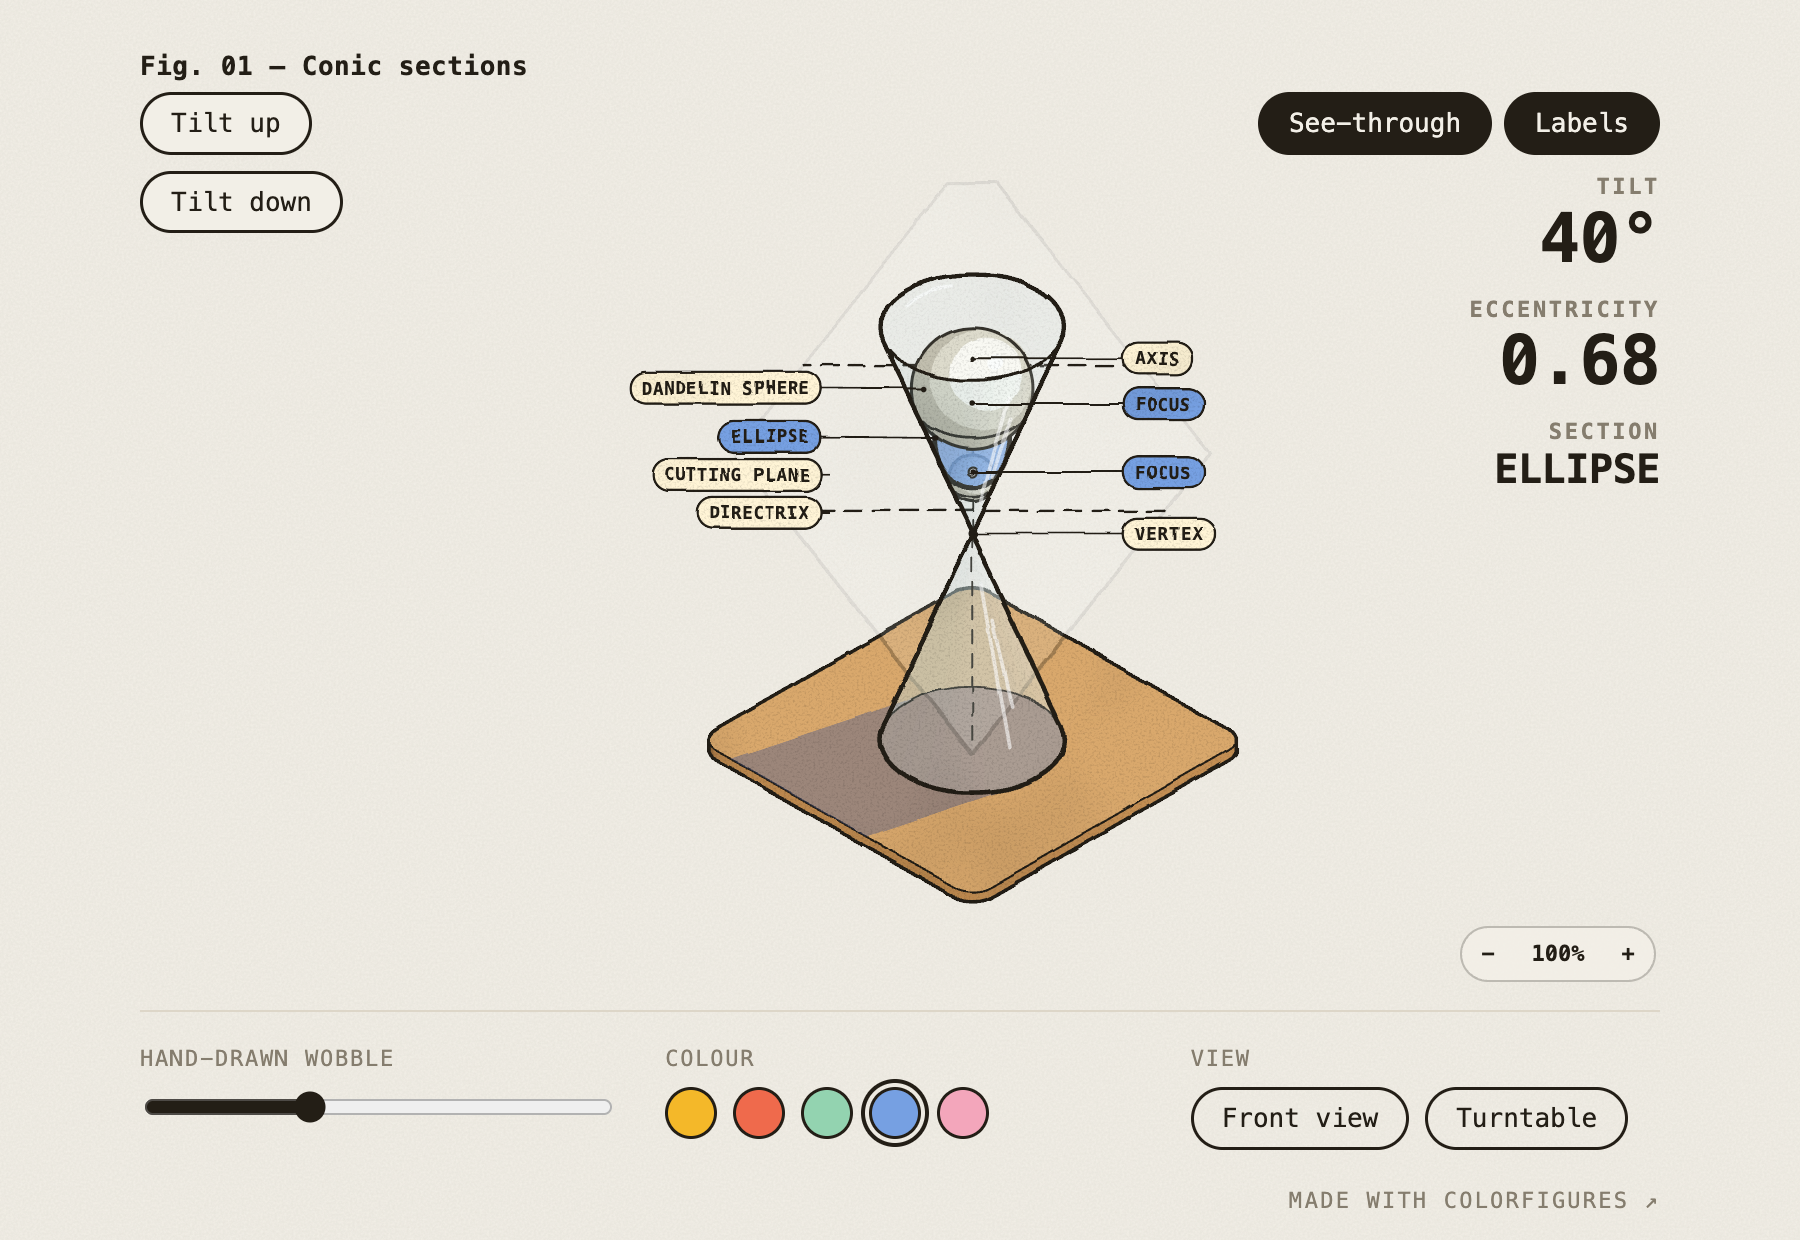
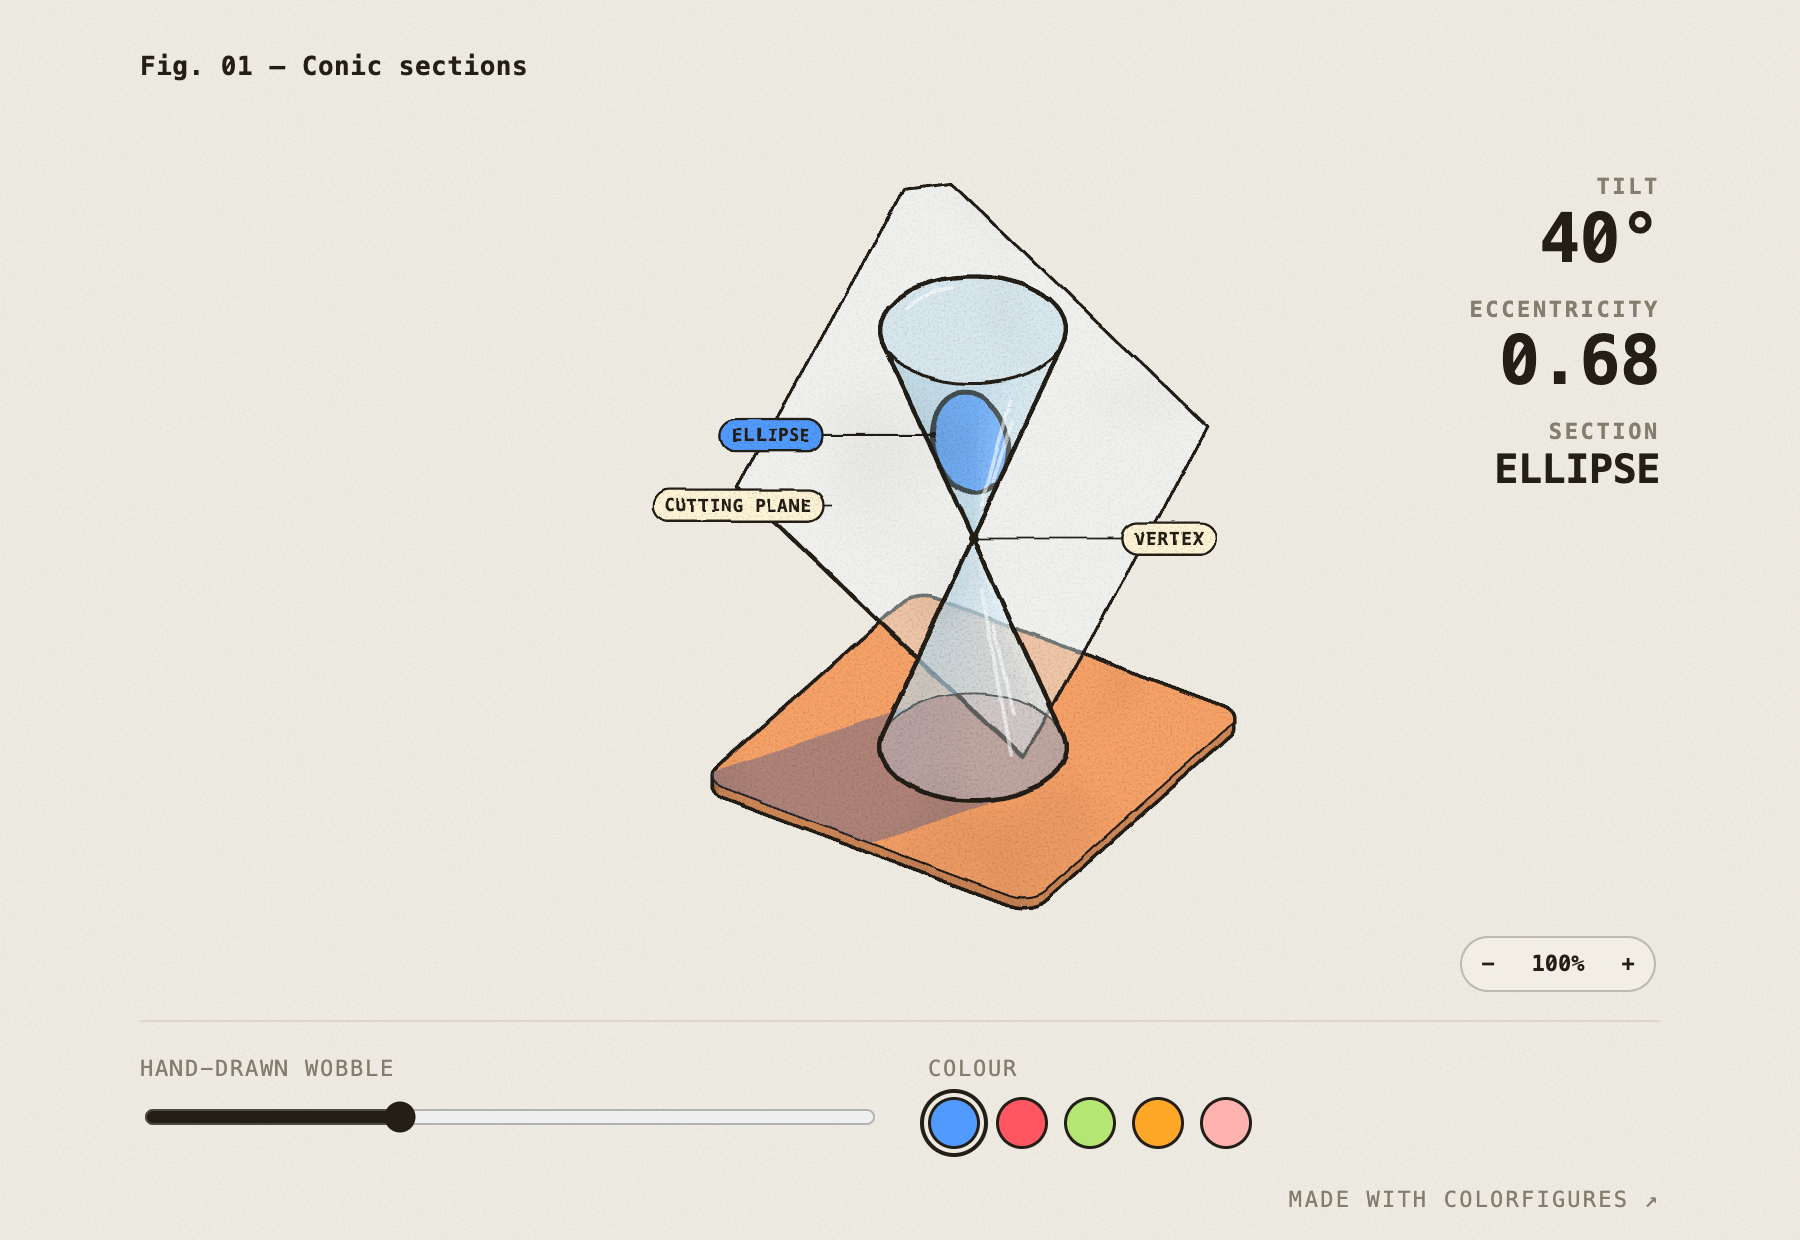
Free-turning plane, auto-spinning camera, marker colours
Drag tilts the plane in any direction; the camera circles on its own. Tilt buttons and
see-through removed, labels always on and no longer flicker, colours from the marker palette.

diff --git a/index.html b/index.html
@@ -1,6 +1,7 @@
 <!doctype html>
 <html lang="en"><head><meta charset="utf-8"><meta name="viewport" content="width=device-width,initial-scale=1">
-<meta name="color-scheme" content="light"><title>Conic Sections</title><style>.mcap{display:none!important}@media (max-width:560px){.stat .v{font-size:20px!important}.stats{align-items:flex-end}}@media (min-width:561px){.vset{top:4px!important}#stats{top:var(--vset-h,44px)!important}}</style><style>@media (max-width:560px){body > header{display:none}}</style><script>window.FIG_A = () => innerWidth <= 560 ? 1.1 : .75;</script><script>window.LBL_U = () => { if (innerWidth > 560) return 0; const s = document.getElementById("fig"); return s && s.clientWidth && s.viewBox.baseVal.width ? s.viewBox.baseVal.width / s.clientWidth : 0; };</script></head><body>
+<meta name="color-scheme" content="light"><title>Conic Sections</title>
+<style>@media (max-width:560px){.stats{flex-wrap:wrap;row-gap:6px!important}}</style><style>.mcap{display:none!important}@media (max-width:560px){.stat .v{font-size:20px!important}.stats{align-items:flex-end}}@media (min-width:561px){.vset{top:4px!important}#stats{top:var(--vset-h,44px)!important}}</style><style>@media (max-width:560px){body > header{display:none}}</style><script>window.FIG_A = () => innerWidth <= 560 ? 1.1 : .75;</script><script>window.LBL_U = () => { if (innerWidth > 560) return 0; const s = document.getElementById("fig"); return s && s.clientWidth && s.viewBox.baseVal.width ? s.viewBox.baseVal.width / s.clientWidth : 0; };</script></head><body>
 <script>
 /* ============================================================
    Colorfigures core: projection, shapes, shading, ink, labels, page shell.
@@ -649,8 +650,8 @@ function mountKeypad(spec){
 /* Conic sections: a clear acrylic double cone cut by one tilting plane.
    How it really works (the maths the model shows):
    - Double cone: every line through the vertex V at the half-angle ALPHA to the axis. Two nappes, tip to tip.
-   - The cutting plane tilts by BETA from horizontal about a fixed horizontal hinge line (in front of the axis,
-     a little above V). Its eccentricity is e = sin BETA / cos ALPHA:
+   - The cutting plane turns freely about a fixed pivot point (a little in front of the axis, above V): it can tilt
+     by any BETA from horizontal, toward any direction PHI. Its eccentricity is e = sin BETA / cos ALPHA:
        BETA = 0          circle      (e = 0)
        0 < BETA < 70     ellipse     (e < 1)   plane cuts one nappe all the way round
        BETA = 70         parabola    (e = 1)   plane parallel to a generator
@@ -665,24 +666,28 @@ function mountKeypad(spec){
 const CW = 100, BH = 3;
 const HN = 60, ALPHA = 20*Math.PI/180, KT = Math.tan(ALPHA), RB = HN*KT;
 const VX = 50, VY = 50, VZ = BH + HN, VTX = [VX, VY, VZ];
-const PHI = 45*Math.PI/180, HD = [Math.cos(PHI), Math.sin(PHI), 0], E2 = [-Math.sin(PHI), Math.cos(PHI), 0];
-const HINGE_P = 4, HINGE_H = 20;                                   // hinge line: 4 toward the viewer, 20 above V
-const HINGE = [VX + HINGE_P*HD[0], VY + HINGE_P*HD[1], VZ + HINGE_H];
+const PIV = [VX + 4*Math.SQRT1_2, VY + 4*Math.SQRT1_2, VZ + 20];   // pivot: 4 toward the front view, 20 above V
 const BOXR = 40, BOXTOP = VZ + HN + 6;                             // the sheet is the plane inside this box
 const SPHM = { l:'#fbfaf3', m:'#dcd8c8', d:'#bdb8a6' };
+/* colours from the marker palette sheet (solid swatches, judy-site/design/textures/palette-full.json) */
+for (const key of Object.keys(PALS)) delete PALS[key];
+Object.assign(PALS, { blue: matOf('#519aff'), coral: matOf('#ff5662'), matcha: matOf('#b5e674'), yellow: matOf('#ffa828'), peach: matOf('#ffb3b1') });
+const GLASS = { l: mix('#a2dfff', '#ffffff', .72), m: mix('#a2dfff', '#ffffff', .45), d: mix('#a2dfff', '#5d7f99', .35) };   // Grayishlight Blue Pale
+const CAMEL = matOf('#f6a167');                                                                                            // Pale Camel board
 const rad = d => d*Math.PI/180;
 const addV = (a, b, k = 1) => [a[0] + b[0]*k, a[1] + b[1]*k, a[2] + b[2]*k];
 
-/* ---------- the plane for a tilt (degrees) ---------- */
-function planeOf(betaDeg){
-  const b = rad(betaDeg), sb = Math.sin(b), cb = Math.cos(b);
-  const n = [sb*HD[0], sb*HD[1], cb], e1 = [-cb*HD[0], -cb*HD[1], sb];
-  return { b, sb, cb, n, e1, delta: dot(n, sub(HINGE, VTX)) };
+/* ---------- the plane for a tilt BETA toward direction PHI (degrees), through the pivot ----------
+   n = normal (always pointing up), e1 = steepest line in the plane, e2 = level line in the plane */
+function planeOf(betaDeg, phiDeg){
+  const b = rad(betaDeg), phi = rad(phiDeg), sb = Math.sin(b), cb = Math.cos(b), hd = [Math.cos(phi), Math.sin(phi), 0];
+  const n = [sb*hd[0], sb*hd[1], cb], e1 = [-cb*hd[0], -cb*hd[1], sb], e2 = [-hd[1], hd[0], 0];
+  return { b, phi, sb, cb, n, e1, e2, delta: dot(n, sub(PIV, VTX)) };
 }
 
 /* ---------- the curve: for each nappe (sg = +1 up, -1 down) the run of points where the plane meets it ----------
    a point on the cone is V + s*(KT cos t, KT sin t, sg) with 0 < s <= HN; on the plane n.(p - V) = delta, so
-   s = delta / (KT sin(beta) cos(t - PHI) + sg cos(beta)) */
+   s = delta / (KT sin(beta) cos(t - phi) + sg cos(beta)) */
 function sectionOf(pl){
   const out = [];
   for (const sg of [1, -1]){
@@ -692,7 +697,7 @@ function sectionOf(pl){
     if (KT*pl.sb > 1e-9){ const cv = (pl.delta/HN - sg*pl.cb)/(KT*pl.sb);
       if (Math.abs(cv) <= 1){ const a = Math.acos(cv); ps.push(a, -a); } }   // exact points where the curve meets the rim
     ps.sort((a, b) => a - b);
-    const pts = ps.map(p => { const s = sAt(p); if (!ok(s)) return null; const t = p + PHI;
+    const pts = ps.map(p => { const s = sAt(p); if (!ok(s)) return null; const t = p + pl.phi;
       return [VX + s*KT*Math.cos(t), VY + s*KT*Math.sin(t), VZ + sg*s]; });
     if (pts.every(Boolean)){ out.push({ sg, pts, closed: true }); continue; }
     const i0 = pts.findIndex(p => !p), run = [];
@@ -714,7 +719,7 @@ function spheresOf(pl){
     const c = [VX, VY, VZ + u], dist = dot(pl.n, sub(c, VTX)) - pl.delta;
     const zt = VZ + u*ca*ca, rt = Math.abs(u)*ca*sa;
     let dir = null;
-    if (pl.sb > .02){ const a = (zt - HINGE[2])/pl.sb; dir = [addV(addV(HINGE, pl.e1, a), E2, -BOXR*1.6), addV(addV(HINGE, pl.e1, a), E2, BOXR*1.6)]; }
+    if (pl.sb > .02){ const a = (zt - PIV[2])/pl.sb; dir = [addV(addV(PIV, pl.e1, a), pl.e2, -BOXR*1.6), addV(addV(PIV, pl.e1, a), pl.e2, BOXR*1.6)]; }
     res.push({ c, u, rho, sg: Math.sign(u), side: Math.sign(dist), foc: addV(c, pl.n, -dist), zt, rt, dir });
   }
   return res;
@@ -746,14 +751,14 @@ const dash = (pts, w, col = INK, da = '3 3', op = 1) => `<path d="${pd(pts, fals
 
 function nappeWalls(sg, k){
   const A = coneRing(sg, .01), B = coneRing(sg, RB);
-  let far = `<g opacity="${f(.5 - .15*k)}">` + loft(A, B, n => mix(toneI(n.map(v => -v), CLEAR), '#f2efe7', .25), true) + `</g>`;
-  let near = `<g opacity="${f(.3 - .12*k)}">` + loft(A, B, n => tone(n, CLEAR)) + `</g>`;
+  let far = `<g opacity="${f(.5 - .15*k)}">` + loft(A, B, n => mix(toneI(n.map(v => -v), GLASS), '#f2efe7', .25), true) + `</g>`;
+  let near = `<g opacity="${f(.3 - .12*k)}">` + loft(A, B, n => tone(n, GLASS)) + `</g>`;
   // glints down the near side, along generators
   for (const [da, t0, t1] of [[-28, .2, .85], [-38, .35, .7]]){ const t = rad(YAW + da), g = s => [VX + s*KT*Math.cos(t), VY + s*KT*Math.sin(t), VZ + sg*s];
     near += `<path d="${pd([g(HN*t0), g(HN*t1)], false)}" fill="none" stroke="#ffffff" stroke-width="1.8" stroke-linecap="round" opacity=".6"/>`; }
   const zb = VZ + sg*HN;
   if (sg > 0){   // top face of the upper nappe, a clear disc seen from above
-    near += fill(pd(B), CLEAR.l, `opacity="${f(.22 - .1*k)}"`) + ink(pd(B), 1.5);
+    near += fill(pd(B), GLASS.l, `opacity="${f(.22 - .1*k)}"`) + ink(pd(B), 1.5);
     near += `<path d="${pd(ringArc(zb - .1, RB*.82, YAW + 120, YAW + 165), false)}" fill="none" stroke="#fff" stroke-width="1.6" opacity=".7" stroke-linecap="round"/>`;
   } else {       // base standing on the board: far half of its rim seen through the acrylic
     far += line(ringArc(zb, RB, ...farHalf()), .9);
@@ -764,12 +769,12 @@ function nappeWalls(sg, k){
 }
 
 function sheetSvg(pl, k){
-  const corners = [[-1, -1], [1, -1], [1, 1], [-1, 1]].map(([a, b]) => addV(addV(HINGE, pl.e1, a*BOXR*2), E2, b*BOXR*2));
+  const corners = [[-1, -1], [1, -1], [1, 1], [-1, 1]].map(([a, b]) => addV(addV(PIV, pl.e1, a*BOXR*2), pl.e2, b*BOXR*2));
   const poly = clipBox(corners);
   if (poly.length < 3) return '';
   const nT = pl.n.map(v => v*.6), A = poly.map(p => sub(p, nT)), B = poly.map(p => addV(p, nT));
   const fn = facing(pl.n) ? pl.n : pl.n.map(v => -v), top = facing(pl.n) ? B : A;
-  return `<g opacity="${f(1 - .65*k)}"><g opacity=".42">` + loft(A, B, n => tone(n, CLEAR)) + fill(pd(top), tone(fn, CLEAR)) + `</g>`
+  return `<g opacity="${f(1 - .65*k)}"><g opacity=".42">` + loft(A, B, n => tone(n, GLASS)) + fill(pd(top), tone(fn, GLASS)) + `</g>`
     + ink(pd(top), 1.3) + hullInk([...A, ...B], 1.6) + `</g>`;
 }
 
@@ -783,10 +788,42 @@ function ball(sp){
 }
 const dot3 = (p, r, col) => { const [X, Y] = P(...p); return `<circle cx="${f(X)}" cy="${f(Y)}" r="${f(r*INK_K)}" fill="${col}" stroke="${INK}" stroke-width="1.1"/>`; };
 
+/* ---------- labels: the engine's two-column pills (xrCallouts), but each label keeps its side while the camera turns.
+   A label only changes column once its anchor is clearly past the middle (or an item fixes it with side: -1 / 1),
+   so anchors near the centre line don't flicker between the columns. ---------- */
+const labelSide = {};
+function callouts(items, B){
+  const pts = []; for (const x of [B[0], B[1]]) for (const y of [B[2], B[3]]) for (const z of [B[4], B[5]]) pts.push(P(x, y, z));
+  const xmin = Math.min(...pts.map(p => p[0])), xmax = Math.max(...pts.map(p => p[0])), cx = (xmin + xmax)/2;
+  const k = INK_K, u = window.LBL_U ? LBL_U() : 0, fs = u ? 10*u : 8.6*k, hgt = u ? 17*u : fs*1.8, gap = hgt + (u ? 3*u : 3*k);
+  const Lc = [], Rc = [], vb = document.getElementById('fig').viewBox.baseVal, slack = 14*k;
+  for (const it of items){ const [X, Y] = P(...it.at);
+    let side = it.side || labelSide[it.text] || (X < cx ? -1 : 1);
+    if (!it.side && side < 0 && X > cx + slack) side = 1; else if (!it.side && side > 0 && X < cx - slack) side = -1;
+    labelSide[it.text] = side; (side < 0 ? Lc : Rc).push({ ...it, X, Y }); }
+  let s = '';
+  for (const [col, side] of [[Lc, -1], [Rc, 1]]){
+    col.sort((a, b) => a.Y - b.Y);
+    let y = -1e9; for (const c of col){ c.py = Math.max(c.Y, y + gap, fs); y = c.py; }
+    const shift = col.length ? Math.max(0, col.reduce((a, c) => a + c.py - c.Y, 0) / col.length) : 0;
+    const room = col.length ? col[0].py - fs : 0; for (const c of col) c.py -= Math.min(shift, room);
+    for (const c of col){
+      c.n = ((window.__ln || (window.__ln = {}))[c.text] || (__ln[c.text] = Object.keys(__ln).length + 1)); const w = u ? hgt*(c.n > 9 ? 1.3 : 1) : c.text.length*fs*.62 + fs*1.5;
+      let px = side < 0 ? xmin - 10*k - w/2 : xmax + 10*k + w/2; px = Math.max(vb.x + w/2 + 2*k, Math.min(vb.x + vb.width - w/2 - 2*k, px));
+      const ex = px - side*w/2;
+      s += `<g class="tag${c.on ? ' on' : ''}" data-n="${c.n}" data-t="${c.text}"><path d="M${f(c.X)} ${f(c.Y)}L${f(ex + side*-4*k)} ${f(c.py)}L${f(ex)} ${f(c.py)}" fill="none" stroke="${INK}" stroke-width="1"/>`
+        + `<circle cx="${f(c.X)}" cy="${f(c.Y)}" r="${f(1.4*k)}" fill="${INK}"/>`
+        + `<rect x="${f(px - w/2)}" y="${f(c.py - hgt/2)}" width="${f(w)}" height="${f(hgt)}" rx="${f(hgt/2)}" fill="${c.on ? 'var(--accent,#f4b829)' : '#fff4d6'}" stroke="${INK}" stroke-width="1.2"/>`
+        + `<text x="${f(px)}" y="${f(c.py + fs*.36)}" font-size="${f(fs)}" text-anchor="middle" font-family="ui-monospace,Menlo,monospace" font-weight="800" letter-spacing=".04em" fill="${INK}">${u ? c.n : c.text}</text></g>`;
+    }
+  }
+  return s;
+}
+
 function scene(st, m){
-  const k = ease(st.xr || 0), pl = planeOf(st.beta), secs = sectionOf(pl), sph = spheresOf(pl);
+  const k = ease(st.xr || 0), pl = planeOf(st.beta, st.phi), secs = sectionOf(pl), sph = spheresOf(pl);
   const viewSide = Math.sign(dot(pl.n, CAM_V)) || 1;
-  let s = board(VX - 46, VY - 46, VX + 46, VY + 46, BH, 6, WOOD);
+  let s = board(VX - 46, VY - 46, VX + 46, VY + 46, BH, 6, CAMEL);
   // clear acrylic casts a light shadow (its own fill-opacity: the page keeps shadow fills out of faded groups)
   s += castShadow([...coneRing(-1, RB), ...coneRing(1, RB)], BH, boardTop(VX - 46, VY - 46, VX + 46, VY + 46, BH, 6)).replace(`fill="${SHADOW}"`, `fill="${SHADOW}" fill-opacity=".4"`);
   s += sheetSvg(pl, k);
@@ -804,7 +841,7 @@ function scene(st, m){
     // the cut face and its curve
     for (const sc of secs.filter(x => x.sg === sg)){
       const face2 = fill(pd(sc.pts), m.l, `opacity=".86"`) + (sc.closed ? ink(pd(sc.pts), 2.4) : ink(pd(sc.pts, false), 2.4) + line([sc.pts[0], sc.pts[sc.pts.length - 1]], 1.1));
-      inner += act('cut', face2);
+      inner += face2;
       labels.push({ at: sc.pts[Math.floor(sc.pts.length/2)], text: secName(st), on: true });
     }
     if (k > 0){
@@ -821,11 +858,11 @@ function scene(st, m){
 
   // labels: anchors picked on the left of each part where it can be, so the pills split over both sides
   const leftmost = pts => pts.reduce((a, b) => P(...b)[0] < P(...a)[0] ? b : a);
-  const sheetEdge = clipBox([addV(HINGE, E2, -BOXR*2), addV(HINGE, E2, BOXR*2)], false);
+  const sheetEdge = clipBox([addV(PIV, pl.e2, -BOXR*2), addV(PIV, pl.e2, BOXR*2)], false);
   const items = [];
   if (secs.length) items.push({ at: leftmost(secs.flatMap(x => x.pts)), text: secName(st), on: true });
   if (sheetEdge.length === 2) items.push({ at: leftmost(sheetEdge), text: 'CUTTING PLANE', on: false });
-  items.push({ at: VTX, text: 'VERTEX', on: false });
+  items.push({ at: VTX, text: 'VERTEX', on: false, side: 1 });   // on the centre line: always right
   if (k > .6){
     items.push({ at: [VX, VY, VZ + HN*.85], text: 'AXIS', on: false });
     const big = sph.reduce((a, b) => !a || b.rho > a.rho ? b : a, null);
@@ -834,7 +871,7 @@ function scene(st, m){
     const dq = sph.find(q => q.dir && clipBox(q.dir, false).length === 2);
     if (dq) items.push({ at: leftmost(clipBox(dq.dir, false)), text: 'DIRECTRIX', on: false });
   }
-  s += xrCallouts(items, [VX - RB, VX + RB, VY - RB, VY + RB, BH, VZ + HN]);
+  s += callouts(items, [VX - RB, VX + RB, VY - RB, VY + RB, BH, VZ + HN]);
   return s;
 }
 
@@ -852,21 +889,48 @@ function tilt(st, d){
 }
 
 ui = mountFigure({
-  fig:'01', turn:'full', title:'Conic sections', palette:'cobalt',
+  fig:'01', turn:'full', title:'Conic sections', palette:'blue',
   size:[CW, CW, BOXTOP + 2], center:[VX, VY],
-  state:{ beta:0, target:0, anim:0 },
+  state:{ beta:0, phi:45, target:0, anim:0 },
   scene,
   stats: st => [
     { label:'Tilt', value:`${Math.round(st.beta)}°` },
     { label:'Eccentricity', value: ecc(st).toFixed(2) },
     { label:'Section', value: secName(st), small:true } ],
-  buttons:[
-    { label:'Tilt up', onClick:(st) => tilt(st, 10) },
-    { label:'Tilt down', onClick:(st) => tilt(st, -10) } ],
-  acts:{ cut:(st) => tilt(st, st.beta >= 89.5 ? -90 : 10) },
-  params:(st, q) => { if (q.has('tilt')) st.beta = st.target = Math.max(0, Math.min(90, +q.get('tilt'))); },
+  params:(st, q) => { if (q.has('tilt')) st.beta = st.target = Math.max(0, Math.min(90, +q.get('tilt'))); if (q.has('dir')) st.phi = +q.get('dir'); },
 });
-xrMount(() => ui, () => '');
+document.getElementById('lblctl').hidden = true;                    // labels are always on
+
+/* ---------- the camera circles the cone by itself; dragging up and down tilts the plane ---------- */
+window.GAME_KEYS = true;                                           // the arrows tilt the plane instead of turning the camera
+document.getElementById('vreset').closest('.ctl').hidden = true;   // no Front view / Turntable: the turn never stops
+const SPIN = 9;                                                    // degrees per second
+ui.animate(dt => { setCam(YAW + SPIN*dt, PITCH); return true; });
+const figEl = document.getElementById('fig');
+figEl.style.touchAction = 'none';
+let planeDrag = null;
+// Rodrigues: turn vector v about unit axis a by angle t
+const spinAbout = (v, a, t) => { const c = Math.cos(t), s2 = Math.sin(t), ax = norm(a), d = dot(ax, v), cr = cross(ax, v);
+  return norm(v.map((x, i) => x*c + cr[i]*s2 + ax[i]*d*(1 - c))); };
+// capture listeners on the figure run before the engine's own (camera) ones, which they stop
+figEl.addEventListener('pointerdown', e => { if (e.button) return; e.stopImmediatePropagation();
+  ui.st.anim++; planeDrag = { x: e.clientX, y: e.clientY, n: planeOf(ui.st.beta, ui.st.phi).n }; figEl.classList.add('drag');
+  try { figEl.setPointerCapture(e.pointerId); } catch {} }, true);
+figEl.addEventListener('pointermove', e => { if (!planeDrag) return; e.stopImmediatePropagation();
+  // trackball: up/down turns the plane about the screen's horizontal, left/right about the screen's vertical
+  const kk = Math.PI/figEl.getBoundingClientRect().height;
+  let n = spinAbout(planeDrag.n, CAM_R, (e.clientY - planeDrag.y)*kk);
+  n = spinAbout(n, CAM_U, (e.clientX - planeDrag.x)*kk);
+  if (n[2] < 0) n = n.map(v => -v);                                // the same plane, normal kept pointing up
+  let b = Math.acos(Math.min(1, n[2]))*180/Math.PI;
+  if (Math.abs(b - 70) < 1.5) b = 70;                              // the parabola is a single angle: snap onto it
+  if (b > .3) ui.st.phi = Math.atan2(n[1], n[0])*180/Math.PI;      // flat: the direction is undefined, keep the last one
+  ui.st.beta = ui.st.target = b; ui.invalidate(); }, true);
+const endPlaneDrag = () => { planeDrag = null; figEl.classList.remove('drag'); };
+figEl.addEventListener('pointerup', endPlaneDrag, true); figEl.addEventListener('pointercancel', endPlaneDrag, true);
+figEl.addEventListener('dblclick', e => e.stopImmediatePropagation(), true);
+addEventListener('keydown', e => { const d = { ArrowUp: 10, ArrowDown: -10 }[e.key];
+  if (!d || /input|textarea/i.test(e.target.tagName)) return; e.preventDefault(); tilt(ui.st, d); ui.render(); });
 </script><style>@media (max-width:560px),(pointer:coarse){#art{filter:none!important}.ctl:has(#wb){display:none!important}}</style><style>@media (max-width:560px){html body .kpad{width:100%;box-sizing:border-box;justify-content:space-between;gap:10px;margin:10px 0 0;padding:0;border:0;background:none;box-shadow:none}
 html body .kpad .dp{display:flex;gap:8px}html body .kpad .hub{display:none}
 html body .kpad .k{width:46px;height:42px;font-size:14px;border-radius:9px}

diff --git a/README.md b/README.md
@@ -1,11 +1,11 @@
 # Conic sections
 
-A clear double cone cut by a tilting plane, drawn by hand in code. Tilt the plane to watch the cut go from a circle to an ellipse, a parabola and a hyperbola. Turn on See-through to see the Dandelin spheres, the foci and the directrix lines.
+A clear double cone cut by a plane, drawn by hand in code. Drag anywhere on the figure to turn the plane in any direction, and watch the cut change between a circle, an ellipse, a parabola and a hyperbola. Tilt, eccentricity and the curve's name update as you go. The camera slowly circles the cone on its own.
 
 Open it: https://ibeez.github.io/conic-sections/
 
-Drag to turn the cone, and use the zoom chip to look closer. It works on a phone too.
+Works on a phone too. The colours are sampled from real markers.
 
 Made with [Colorfigures](https://april-zhu.com/colorfigures).
 
-![Conic sections, see-through view](preview.png)
+![Conic sections, ellipse](preview.png)
